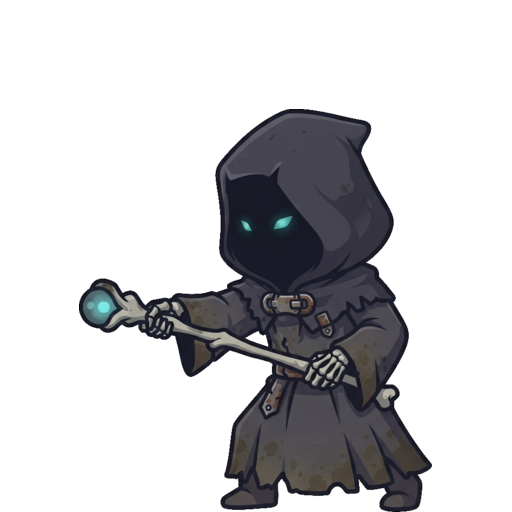
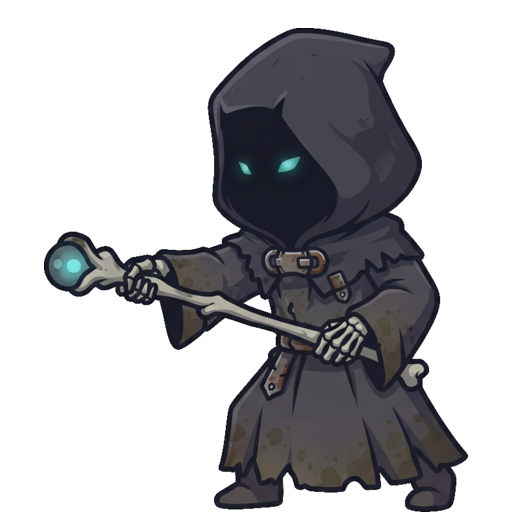
feat(combat): ボスを後列中段に置き、ネクロマンサーを大きくする
隊列の slot1（＝ボスが立つ位置・最後まで残る位置）を中列上段から
後列中段へ移した。手下の群れの後ろにボスが構える絵になる。
POS は並び順がそのままスロット番号なので、座標の入れ替えだけ。

ネクロマンサーの combat_scale を 1.05 → 1.26（1.2倍）。手下に埋もれて
小さく見えていた。map_scale は据え置き＝盤上の駒の大きさは変えない。

Changed region(s): [[0.0625, 0.0312, 0.9375, 1.0], [0.6562, 0.8438, 0.6875, 0.9062]]

diff --git a/doc/tech/combat_scene.md b/doc/tech/combat_scene.md
@@ -15,11 +15,12 @@
 ## 兵数の表示（隊列スロット）
 
 - 各陣営の立ち絵（`combat`）を、その時点の兵数（1〜8・[../gdd/combat.md](../gdd/combat.md)）ぶん複製して並べる。同じ1枚を使い回し、スロットの表示ON/OFFで数を合わせる。兵数は戦闘ルールで上限8＝オーバーフロー処理は不要。
-- 隊列テンプレ：散開スキャッター（計8）で中心（激突点）へ正対。奥行き(x)と高さ(y)を互い違いにずらし、格子整列にしない（隊列に見えつつ自然な群れ）。隊長は中央。
+- 隊列テンプレ：散開スキャッター（計8）で中心（激突点）へ正対。奥行き(x)と高さ(y)を互い違いにずらし、格子整列にしない（隊列に見えつつ自然な群れ）。隊長は後列中段＝群れの後ろに構える。
 - x で3列に分かれる（後列3・中列2・前列3。前＝敵側）。足元の位置には地面の傾き（x が前ほど下）が乗るので、後列は y を大きめ（画面下）、前列は y を小さめ（画面上）に取って傾きを打ち消す。これをしないと3列が斜めに潰れて一塊に見える。
-- スロット番号＝生存優先度＝重心から近い順。表示は slot1..兵数。損害は外周から消える（外の駒が先に落ち、中央の隊長が最後まで残る）。少人数でも中央に寄って崩れる（8→菱形4→対2→単1）。
-- ボス系：slot1（中央）を本人の `combat` にし、残りを従者＝別スキンの `combat` で埋める。中央は最後まで残るので、兵数が減るほどボスだけになる。
-  - 従者は `unit_skin.csv` の `retainers` 列（`|` 区切り・空＝全部本人）。並び順＝中央に近い順。slot が余ればリストを先頭から巡回する（`skeleton|zombie` なら交互）。上限7（隊列8のうち先頭は本人）。
+- スロット番号＝生存優先度。表示は slot1..兵数。損害は外側から消え、slot1 の隊長が最後まで残る。少人数では隊長と中列に寄って崩れる。
+- ボス系：slot1（後列中段）を本人の `combat` にし、残りを従者＝別スキンの `combat` で埋める。slot1 は最後まで残るので、兵数が減るほどボスだけになる。ボスが手下の後ろに構える絵になる（敵陣営では画面の外側が後ろ）。
+  - 従者は `unit_skin.csv` の `retainers` 列（`|` 区切り・空＝全部本人）。並び順＝slot2 から順。slot が余ればリストを先頭から巡回する（`skeleton|zombie` なら交互）。上限7（隊列8のうち先頭は本人）。
+  - ボスを手下より大きく見せたいときは `combat_scale` を上げる（盤の駒は `map_scale` で別管理なので戦闘だけ大きくできる）。例＝ネクロマンサー 1.26。
   - 既存スキンを指すので絵は増えない。例＝ネクロマンサーにスケルトンとゾンビを混ぜる、ゴブリンロードにゴブリンを従える。
   - 未定義の `skin_id` を指すと変換が止まる（[../../data/units/convert.gd](../../data/units/convert.gd)）＝黙って絵が出ない事故を防ぐ。
 - サイズは全スロット一定（`FIG_SCALE`＝列で変えない）。3/4俯瞰の奥行き感は位置（前ほど下・奥ほど上）と重なり順で出し、拡大率では付けない＝列ごとの大小差を出さず揃える。
